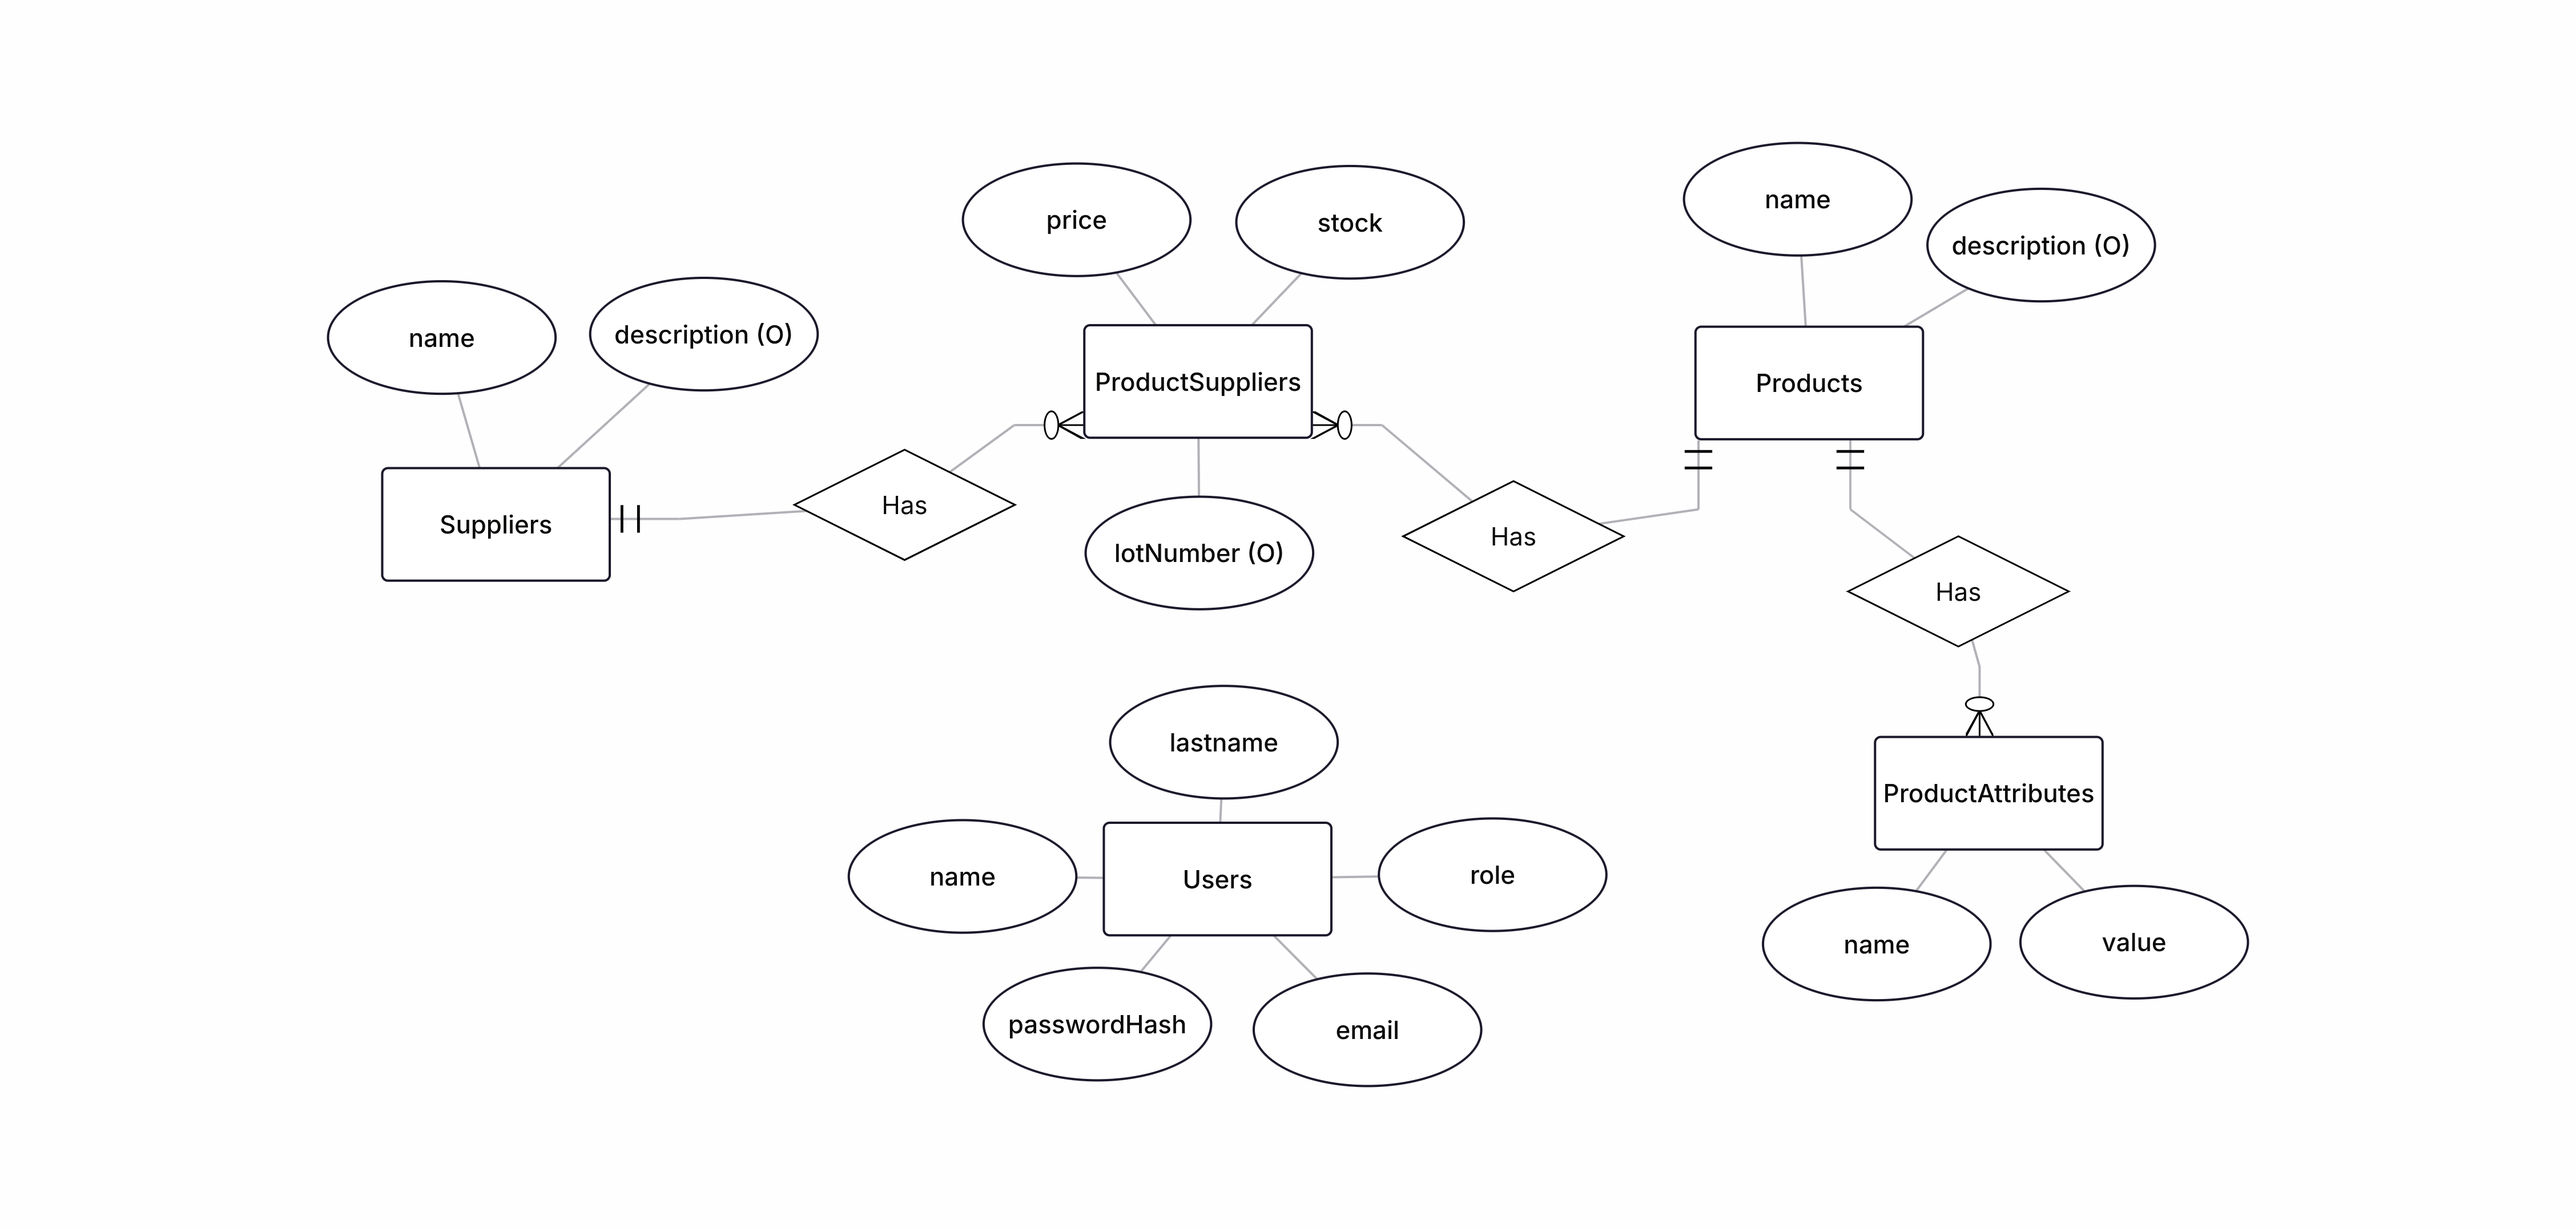
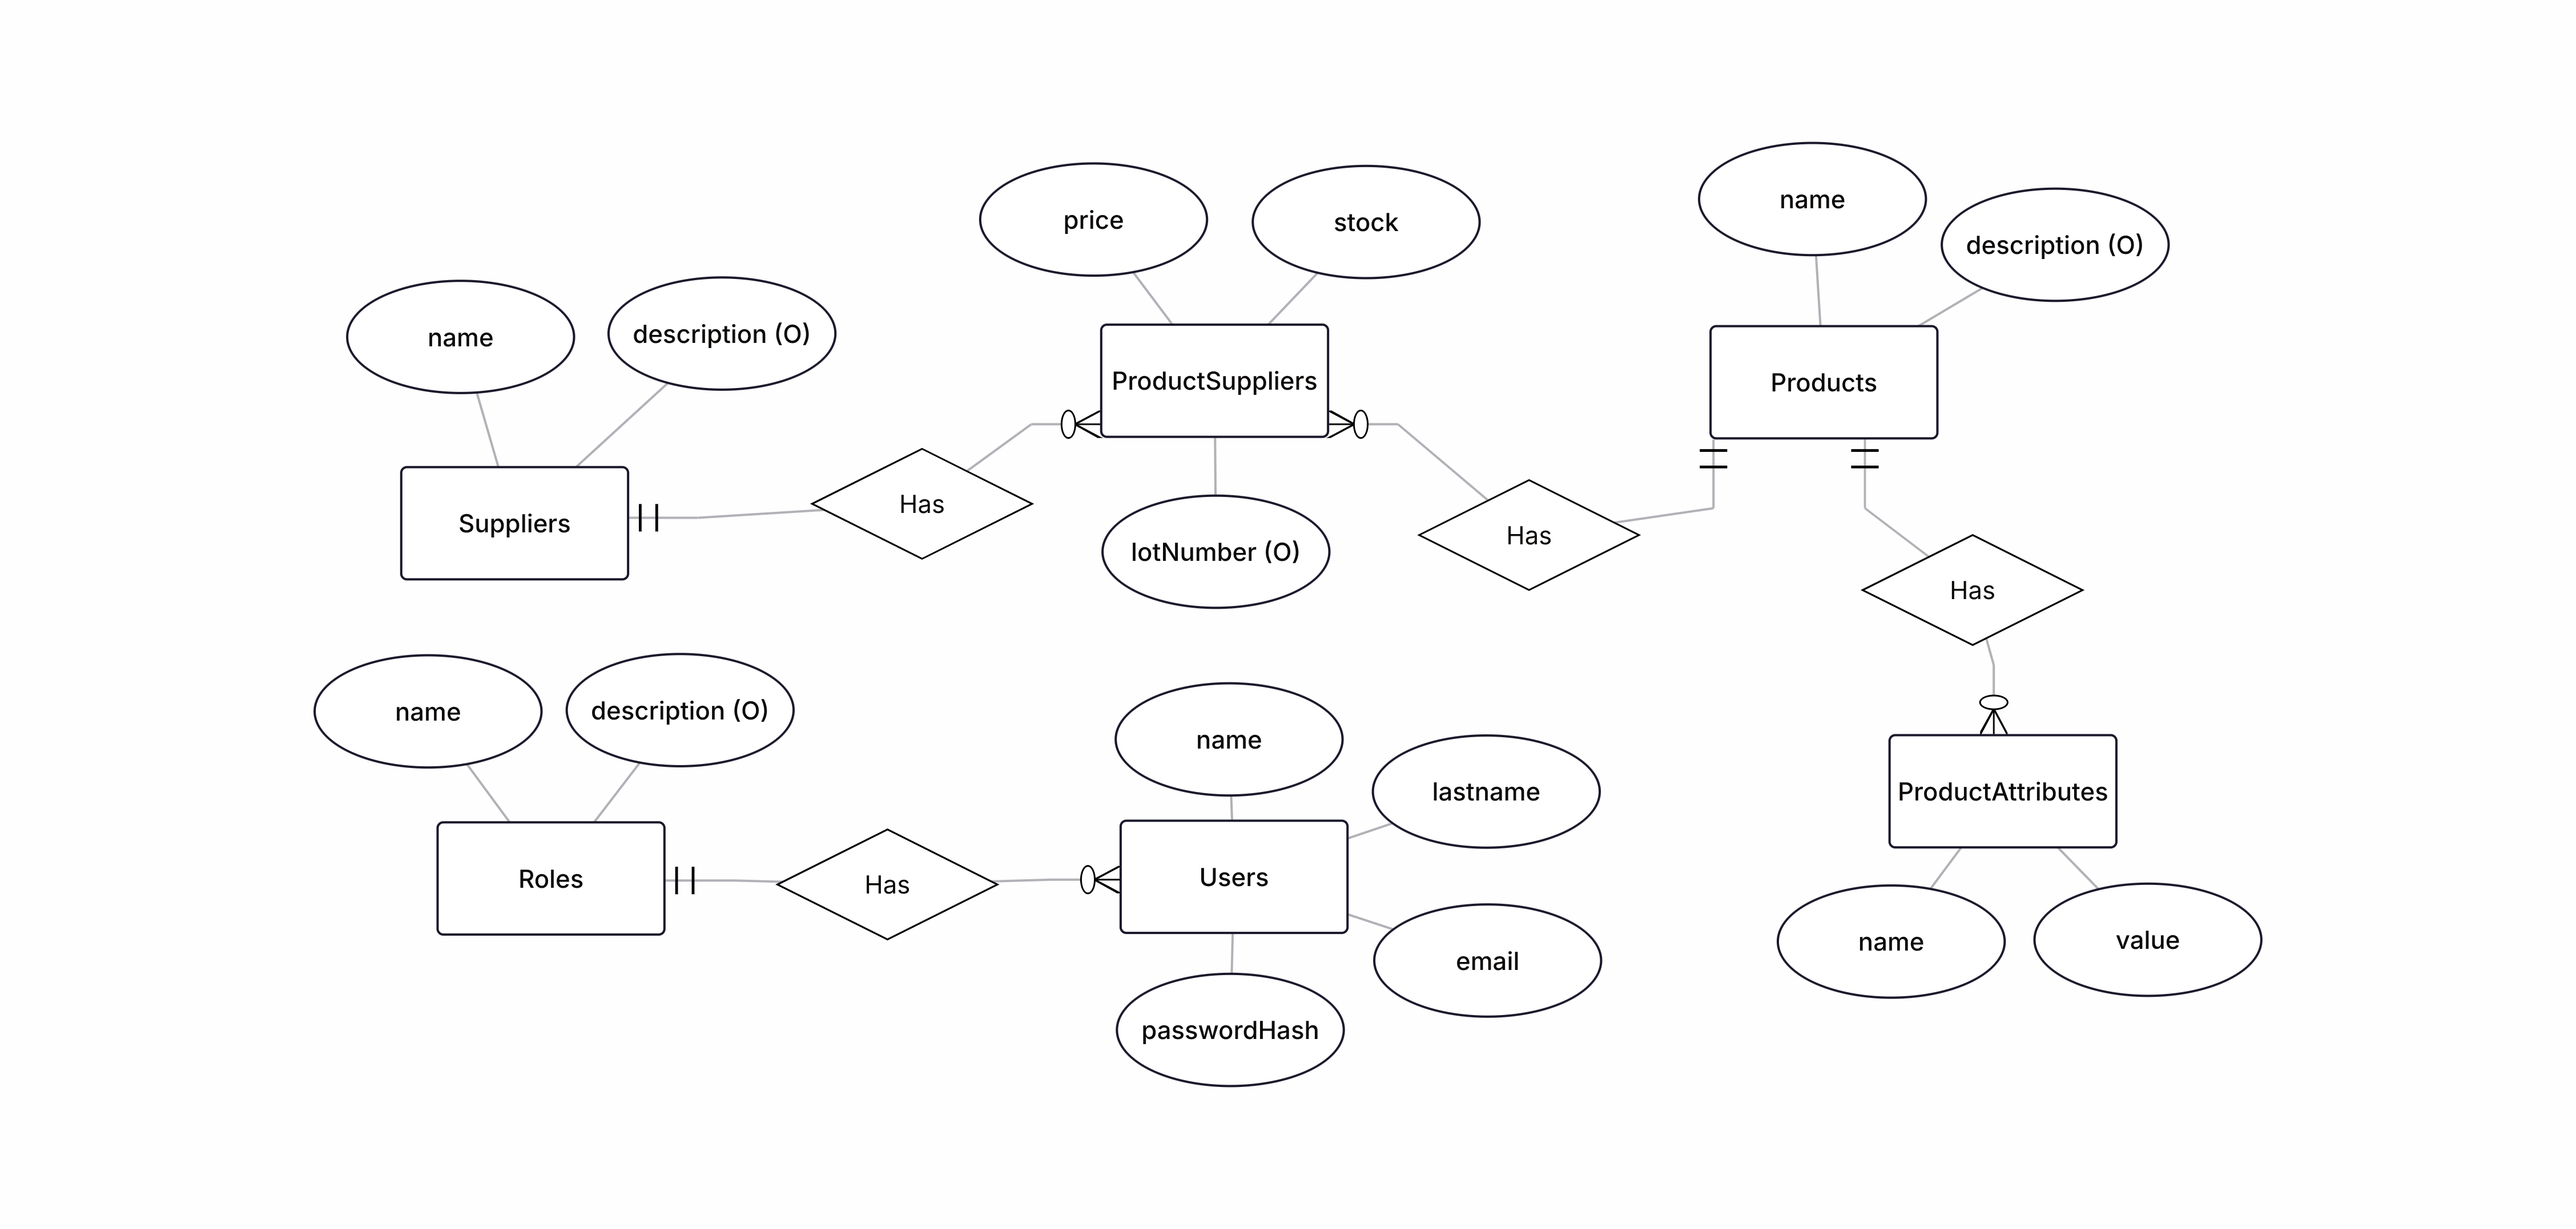
feat(backend): add entities for the system

diff --git a/backend/src/Inventory.Core/Entities/ProductSupplier.cs b/backend/src/Inventory.Core/Entities/ProductSupplier.cs
@@ -1,0 +1,13 @@
+namespace Inventory.Core.Entities;
+
+public class ProductSupplier
+{
+    public int Id { get; set; }
+    public int ProductId { get; set; }
+    public int SupplierId { get; set; }
+    public string? LotNumber { get; set; }
+    public decimal Price { get; set; }
+    public int Stock { get; set; }
+    public Product Product { get; set; } = null!;
+    public Supplier Supplier { get; set; } = null!;
+}

diff --git a/backend/src/Inventory.Core/Entities/Product.cs b/backend/src/Inventory.Core/Entities/Product.cs
@@ -1,0 +1,10 @@
+namespace Inventory.Core.Entities;
+
+public class Product
+{
+    public int Id { get; set; }
+    public required string Name { get; set; }
+    public string? Description { get; set; }
+    public ICollection<ProductAttribute> Attributes { get; set; } = new List<ProductAttribute>();
+    public ICollection<ProductSupplier> ProductSuppliers { get; set; } = new List<ProductSupplier>();
+}

diff --git a/backend/src/Inventory.Core/Entities/User.cs b/backend/src/Inventory.Core/Entities/User.cs
@@ -1,0 +1,12 @@
+namespace Inventory.Core.Entities;
+
+public class User
+{
+    public int Id { get; set; }
+    public required string Name { get; set; }
+    public required string LastName { get; set; }
+    public required string Email { get; set; }
+    public required string PasswordHash { get; set; }
+    public int RoleId { get; set; }
+    public Role Role { get; set; } = null!;
+}

diff --git a/backend/src/Inventory.Core/Entities/Supplier.cs b/backend/src/Inventory.Core/Entities/Supplier.cs
@@ -1,0 +1,9 @@
+namespace Inventory.Core.Entities;
+
+public class Supplier
+{
+    public int Id { get; set; }
+    public required string Name { get; set; }
+    public string? Description { get; set; }
+    public ICollection<ProductSupplier> ProductSuppliers { get; set; } = new List<ProductSupplier>();
+}

diff --git a/backend/src/Inventory.Core/Entities/ProductAttribute.cs b/backend/src/Inventory.Core/Entities/ProductAttribute.cs
@@ -1,0 +1,10 @@
+namespace Inventory.Core.Entities;
+
+public class ProductAttribute
+{
+    public int Id { get; set; }
+    public int ProductId { get; set; }
+    public required string Name { get; set; }
+    public required string Value { get; set; }
+    public Product Product { get; set; } = null!;
+}

diff --git a/backend/src/Inventory.Core/Entities/Role.cs b/backend/src/Inventory.Core/Entities/Role.cs
@@ -1,0 +1,9 @@
+namespace Inventory.Core.Entities;
+
+public class Role
+{
+    public int Id { get; set; }
+    public required string Name { get; set; }
+    public string? Description { get; set; }
+    public ICollection<User> Users { get; set; } = new List<User>();
+}
